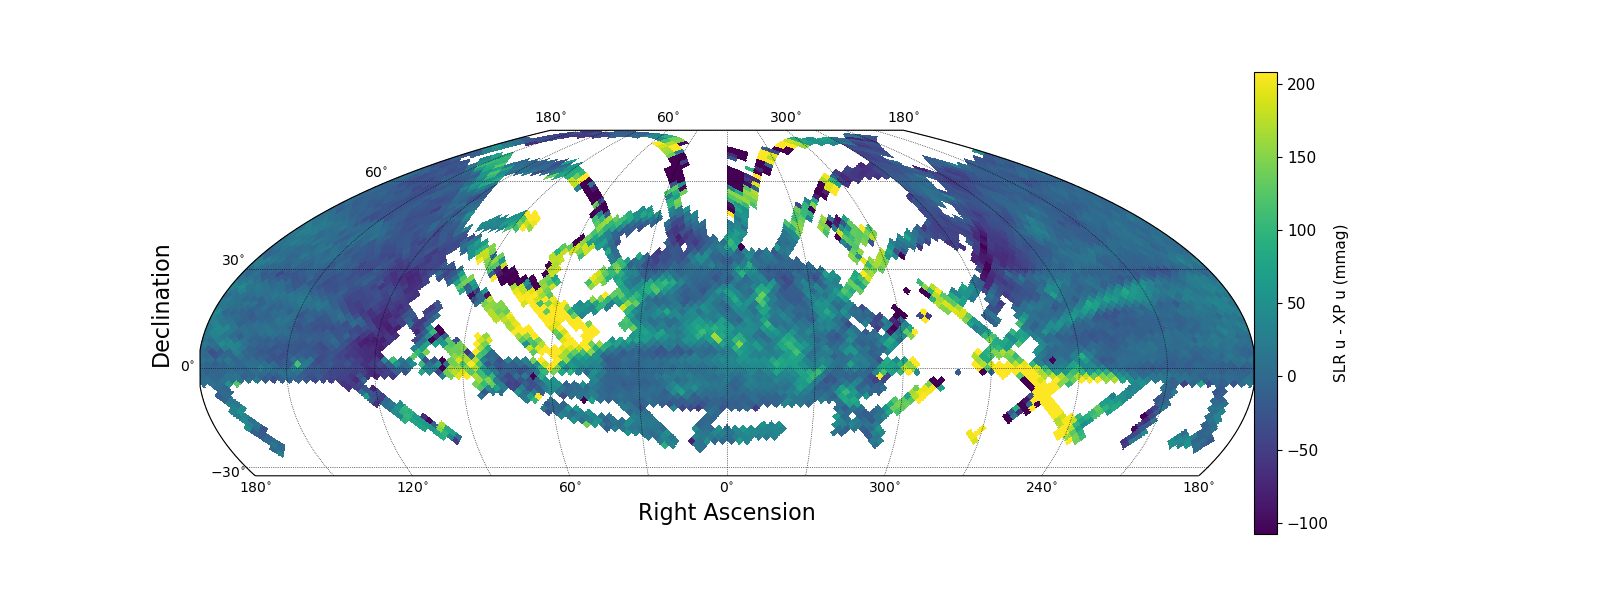
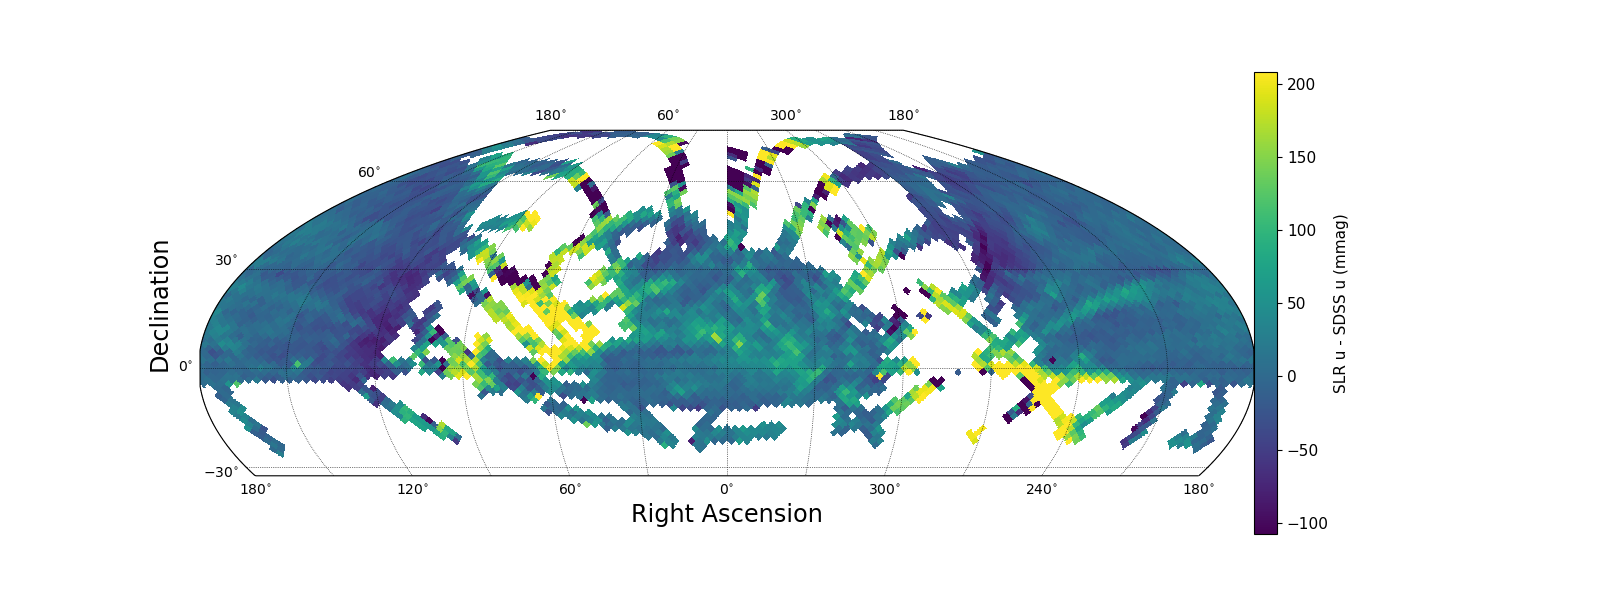
addressed comments

diff --git a/body.tex b/body.tex
@@ -26,11 +26,11 @@ Therefore, we have developed \monster, a combination of reference catalogs, cont
 
 The code and configuration used to create \monster can be found at \url{https://github.com/lsst-dm/the_monster}.\\
 
-\textbf{Note:} We use \emph{source} to describe the bandpass a measurement is currently in and \emph{target} to describe the bandpass we would like to transform a measurement into.
+\textbf{Note:} We use \emph{initial} to describe the bandpass a measurement is currently in and \emph{target} to describe the bandpass we would like to transform a measurement into.
 
 In this document we describe how to access \monster in Section \ref{sec:using}. Section \ref{sec:summary} summarizes the creation of this catalog. 
 Then, we discuss in more detail the input datasets (Section \ref{sec:input}), the conversion of external refcats to the LSST format (Section \ref{sec:conversion}), derivations of the color transformations (Section \ref{sec:colors}), and the stellar locus regression (slr) method used to derive many of the \emph{u}-band fluxes (Section \ref{sec:monster-u}).
-In Section \ref{sec:assembly}, we present the assembled catalog showing the density of sources with some basic characterization in Table \ref{tab:summary} \FIXME{why does this say table 8 instead of 1}.
+In Section \ref{sec:assembly}, we present the assembled catalog showing the density of sources with some basic characterization in Table \hyperref[tab:summary]{1}.
 Finally, we include more detailed descriptions of each of the input catalogs for \monster in Section \ref{sec:details}.
 
 \section{Using \monster}
@@ -68,7 +68,9 @@ Additionally, positions, proper motions, parallaxes, magnitudes, and relevant fl
 The flat files for \monster in fits format can be accessed at the USDF at the location
 $$\texttt{path=/sdf/group/rubin/shared/refcats/the\_monster\_20250219/}$$
 
-\subsection{Applying spline color terms}
+\subsection{Applying color terms}
+Most color terms in the LSST Science Pipelines are in the format of cubic polynomials, however, for \monster we have decided to use a more flexible cubic spline fit to the color transformation.
+These cubic splines are defined by a set of color nodes, with associated values and are described in more detail in Section \ref{sec:colors}.
 
 An example of how to retrieve the splines from the git repository and apply them to transform fluxes is found in the tutorial notebook \href{https://github.com/lsst-dm/dmtn-277/blob/main/notebooks/apply_monster_transformations.ipynb}{\texttt{apply\_monster\_transformations.ipynb}}.
 
@@ -83,7 +85,7 @@ The creation of the \monster can divided into two components, the \textit{grizy}
     \item Subsequently, all input catalogs are converted into the LSST Science Pipelines refcat format (htm7), see Section \ref{sec:conversion}.
     \item Our reference catalog, \monster, uses DES bandpasses internally for \textit{grizy}-bands. So, the next step is to convert all measured fluxes to the DES system by derving color transformations.
     This is done by fitting a cubic spline to the ratio of source flux and target flux as a function of color for a high quality subset of the data over a restricted color range.
-    \item With the external reference catalogs in hand, as well as colorterms for each measurement, we can create versions of each source-refcat (e.g PS1) that have been matched to \textit{Gaia}-DR3 sources, further selected to only include isolated sources (no neighbors within 1"), and transformed to the DES bandpass.
+    \item With the external reference catalogs in hand, as well as colorterms for each measurement, we can create versions of each initial-refcat (e.g PS1) that have been matched to \textit{Gaia}-DR3 sources, further selected to only include isolated sources (no neighbors within 1"), and transformed to the DES bandpass.
     \item Finally, we assemble \monster by reading in each transformed htm shard and adding measurements for each \emph{Gaia}-DR3 source (a rank order of preference is used when multiple refcats have measurements of the same source) to \monster catalog. 
     We add flux measurements for the DES-bandpasses as well as any target bandpasses for \monster catalog. In version one of the\_monster, \textit{the\_monster\_20240904}, LATISS fluxes and SynthLsst fluxes are included as well.
 \end{enumerate}
@@ -140,12 +142,12 @@ This is done using emprically for ComCam and LATISS (section \ref{sec:tocomcam})
 % want a table with inital cat, target cat, number of nodes, color range, fit flux offset, source flag
 
 \subsection{Fitting color transformations}
-To derive color transformations we perform a cubic-spline based fit for a relation between the color measured in the source bandpass and the ratio of fluxes in the source and target bandpasses.
-For example, the transformation from GaiaXP's estimate of DES g-band (source bandpass) to DES g-band (target bandpass) is shown as a red line in Figure \ref{fig:color-xp-g}. 
+To derive color transformations we perform a cubic-spline based fit for a relation between the color measured in the initial bandpass and the ratio of fluxes in the initial and target bandpasses.
+For example, the transformation from GaiaXP's estimate of DES g-band (initial bandpass) to DES g-band (target bandpass) is shown as a red line in Figure \ref{fig:color-xp-g}. 
 These transformation are derived using the \href{https://github.com/lsst-dm/the_monster/blob/main/python/lsst/the/monster/measure_colorterms.py}{SplineMeasurer} class from \monster. 
 
-This fit is done by taking an arbitrary high lattitude spatial region where the source and target refcats overlap \FIXME{quote the region for training}. 
-Over this region we 1) read in the source refcat, target refcat, and \emph{Gaia}-DR3, 2) we spatially match the source and target refcats to \emph{Gaia}-DR3, with a 0.5'' matching radius. 3) in the source catalog we apply a single band, \textit{i}-band by default, selection to obtain a sample of high-quality stellar-sources.  
+This fit is done by taking an arbitrary high lattitude spatial region where the initial and target refcats overlap ($45 < \alpha <  55, -30 < \delta < -20 $). 
+Over this region we 1) read in the initial refcat, target refcat, and \emph{Gaia}-DR3, 2) we spatially match the initial and target refcats to \emph{Gaia}-DR3, with a 0.5'' matching radius. 3) in the initial catalog we apply a single band, \textit{i}-band by default, selection to obtain a sample of high-quality stellar-sources.  
 
 With a matched catalog containing flux measurements in both systems in hand, we compute \emph{g}-\emph{i} (\emph{i}-\emph{z}) colors for all objects in \emph{gri}-bands (\emph{zy}-bands). 
 These colors are used to select a subest sources that we expect to be well behaved, the color ranges for each transfomation are listed in Table \ref{tab:summary}.
@@ -166,7 +168,7 @@ In figure \ref{fig:color-xp-g} we show the color transformation from \emph{Gaia}
 
 \subsection{Synthetic transform: Monster to  SynthLsst}
 Initially, synthetic color transformations were used in \monster to transform the internal (DES) magnitudes into estimated LSST magnitudes. 
-These transformations were derived using the baseline v1.9 LSST total transmissions available at \url{https://raw.githubusercontent.com/lsst/throughputs/main/baseline/}, as well as the DES throguhputs from \citet{Abbott:2021} accessable at \url{https://noirlab.edu/science/programs/ctio/filters/Dark-Energy-Camera}.
+These transformations were derived using the baseline v1.9 LSST total transmissions available at \url{https://github.com/lsst/throughputs/tree/1.9/baseline}, as well as the DES throguhputs from \citet{Abbott:2021} accessable at \url{https://noirlab.edu/science/programs/ctio/filters/Dark-Energy-Camera}.
 The transfomations are found using the FGCM stellar templates \citep{Burke:2018}. 
 These templates are a repackaged version of the main sequence stellar library presented in \citet{Kelly:2012}.
 For each filter, we compute the synthetic LSST and DES color terms by convolving the stellar templates with the LSSTCam total transmission curves.
@@ -198,9 +200,10 @@ Additionally, the updated system throughputs based on these measurements can be 
 One of the more challenging aspects in creating \monster was ensuring that there were an adequate density of \textit{u}-band sources in the catalog to calibrate LSSTCam exposures. 
 Since homogenous full sky \textit{u}-band photometry of sufficient depth does not exist, we combine measurements from three different sources to generate \textit{u}-band measurements in \monster. 
 The most well understood measurements are from SDSS DR16 \textit{u}-band standard stars, so we use these where available. 
-Additionally, we use synthetic photometry from \emph{Gaia}-XP in the SDSS \textit{u}-band, this requires fitting an empirical offset between the \emph{Gaia}-XP synthetic photometry and SDSS.
+Additionally, we use the, unstandardized, synthetic photometry from \emph{Gaia}-XP in the SDSS \textit{u}-band, this requires fitting an empirical offset between the \emph{Gaia}-XP synthetic photometry and SDSS.
 The  \emph{Gaia}-XP coverage is all sky but the depth is not sufficient to provide the required density of sources.
 Therefore, we use stellar locus regression (SLR) to estimate the \textit{u}-band fluxes for a larger set of stars.
+To account for metallicity variations, we tie the SLR to the bright \emph{Gaia}-XP stars with a spatially dependent offset, described below.
 Figure \ref{fig:monster-u} shows the source density of \textit{u}-band measurements in \monster. The median source density is ~70 sources per \texttt{NSIDE}=256 healpixel. 
 The right panel shows mean survey source for the \textit{u}-band measurements in \monster. 
 The regions with SDSS coverage can be seen in gold, while \textit{Gaia}-XP measurements (pale red) are mostly used along the galactic plane and at low declination where SkyMapper provides the \emph{g}- and \emph{r}-band measurements. 
@@ -225,7 +228,8 @@ The results of this color transfomation are shown in Figure \ref{fig:color-gaiax
     \includegraphics[width=0.49\linewidth]{./figures/color_terms/GaiaXPu_to_SDSS_band_u_color_term.png}
     \includegraphics[width=0.49\linewidth]{./figures/color_terms/GaiaXPu_to_SDSS_band_u_flux_residuals.png}
     \caption{Left: The ratio of fluxes between \emph{Gaia}-XP synthetic photometry and SDSS for the \textit{u}-band as a function of \textit{g-r} color. The red line shows the cubic spline that defines our color transformation.
-    Right: Residuals between \emph{Gaia}-XP synthetic photometry transformed to SDSS and SDSS as a function of magnitude.}
+    Right: Residuals between \emph{Gaia}-XP synthetic photometry transformed to SDSS and SDSS as a function of magnitude.
+    Note that the \emph{Gaia}-XP synthetic photometry uses the raw values not the standardized values from \citet{GaiaCollaboration:2023-XP}.}
     \label{fig:color-gaiaxp-usdss-u}
 \end{figure}
 
@@ -273,11 +277,12 @@ We can then compare our derived magnitudes with those of SDSS. There results of 
     \label{fig:slr_sdss_compare}
     \caption{
     Left: A map showing the mean value of $u_{\mathrm{slr}}$ - $u_{sdss}$ as a function of on sky position computed at \texttt{NSIDE}=32 resoulution.  
-    Right: Histogram of $u_{\mathrm{slr}}$ - $u_{sdss}$ for the high galactic latitude ($|b| > 30$) regions of the map \FIXME{axis label wrong}. }
+    Right: Histogram of $u_{\mathrm{slr}}$ - $u_{sdss}$ for the high galactic latitude ($|b| > 30$) regions of the map. }
 \end{figure}
 
 Interestingly, we still see a spatially dependent offset between the $u_{\mathrm{slr}}$ and $u_{\mathrm{GaiaXP}}$ measurements centered on 6 mmag.
-To improve the internal consistency of our reference catalog we apply this offset, at \texttt{NSIDE}=32, to the $u_{\mathrm{slr}}$ measurements.
+This is due to real variations in the metallicity of stars as a function of position on the sky which impact the location of the stellar locus in color-color space.
+To account for this and improve the internal consistency of our reference catalog we pin the SLR estimates to the \emph{Gaia}-XP catalog by applying a spatially dependent offset to the $u_{\mathrm{slr}}$ measurements computed at \texttt{NSIDE}=32.
 The result of this is very good agreement between the $u_{slr}$ and $u_{\mathrm{GaiaXP}}$ measurements, with a mean value of $\mu = -0.3 mmag$ and a scatter of $\sigma = 3.6$ mmag. 
 
 With this offset applied , we can now use the $u_{\mathrm{slr}}$ measurements to fill in the gaps of \monster's \textit{u}-band coverage.
@@ -301,14 +306,14 @@ As seen in Figure \ref{fig:monster-u}, the only region without at least 10 sourc
     \begin{tabular}{|c | c | c | c | c | c |}
         \hline
         band & internal & color range & $N_{src}$  & magnitude range & \% bad pix\\
-             & bandpass &             & per pix256 &                 &$\delta < 30$\\
+             & bandpass &             & per pix256 &  2\%--98\%         &$\delta < 30$\\
         \hline
-        u             &  SDSS                      & g-r=0.35--0.7        & 69                      & 7.62--23.82   &  2.5  \\
-        g             & DES                        & g-i=0.35--3.0        & 221                     & 6.78--23.31   &  0.01 \\
-        r             & DES                        & g-i=0.35--3.0        & 218                     & 6.49--22.03   &  0.01 \\
-        i             & DES                        & g-i=0.35--3.0        & 221                     & 6.41--21.38   &  0.01 \\
-        z             & DES                        & i-z=0.0--0.7         & 251                     & 6.40--21.34   &  0.01 \\
-        y             & DES                        & i-z=1.5--30          & 133                     & 6.43--20.83   &  0.02 \\
+        u             &  SDSS                      & g-r=0.35--0.7        & 69                      & 14.6 -- 21.3   &  2.5  \\
+        g             & DES                        & g-i=0.35--3.0        & 221                     & 13.6 -- 20.8   &  0.01 \\
+        r             & DES                        & g-i=0.35--3.0        & 218                     & 13.0 -- 19.7   &  0.01 \\
+        i             & DES                        & g-i=0.35--3.0        & 221                     & 12.7 -- 19.3   &  0.01 \\
+        z             & DES                        & i-z=0.0--0.7         & 251                     & 12.8 -- 18.9   &  0.01 \\
+        y             & DES                        & i-z=1.5--30          & 133                     & 12.0 -- 17.2   &  0.02 \\
         \hline
     \end{tabular}
     \caption{Summary of \monster}
